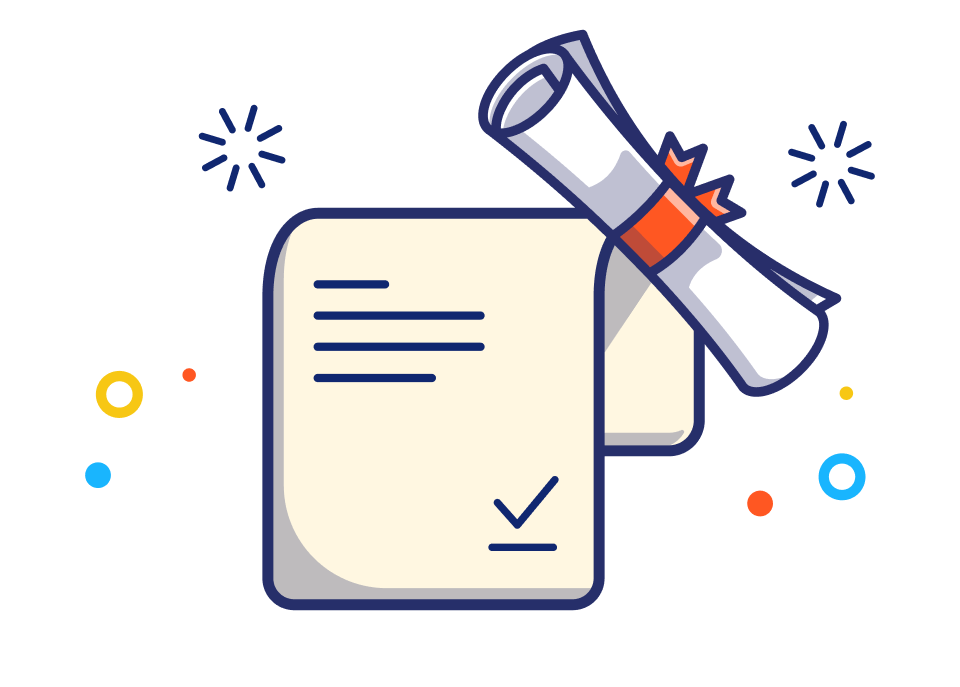
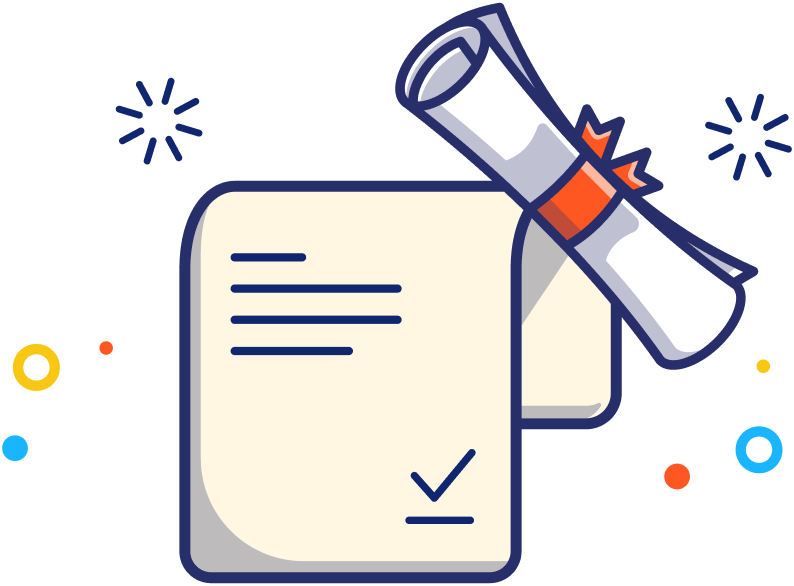
auth pages design fix

diff --git a/app/_components/auth/ForgotPasswordForm/ForgotPasswordForm.jsx b/app/_components/auth/ForgotPasswordForm/ForgotPasswordForm.jsx
@@ -42,7 +42,7 @@ export default function ForgotPasswordForm({ onSuccess }) {
 
 
   return (
-    <div className={styles.formWrapper}>
+    <div>
       <form className={styles.form} onSubmit={handleSubmit(onSubmit)}>
         <div style={{ marginBottom: "26px" }}>
           <p className={styles.label}>
@@ -89,7 +89,6 @@ export default function ForgotPasswordForm({ onSuccess }) {
         </button>
       </form>
 
-      <img src="/images/graduation.png" alt="grad" className={styles.grad} />
     </div>
   );
 }

diff --git a/app/_components/auth/SignUpForm/SignUpForm.module.css b/app/_components/auth/SignUpForm/SignUpForm.module.css
@@ -49,35 +49,9 @@
   flex-direction: row;
 }
 
-.grad {
-  display: none;
-}
-
 @media screen and (min-width: 850px) {
   .form {
     width: 400px;
     margin: 0;
-  }
-}
-
-@media screen and (min-width: 1200px) {
-  .formWrapper {
-    display: flex;
-    align-items: center;
-  }
-  .grad {
-    display: block;
-    width: 300px;
-    height: 200px;
-  }
-}
-
-@media screen and (min-width: 1400px) {
-  .form {
-    width: 328px;
-  }
-  .grad {
-    width: 480px;
-    height: 342.86px;
   }
 }

diff --git a/app/_components/auth/ForgotPasswordForm/ForgotPasswordForm.module.css b/app/_components/auth/ForgotPasswordForm/ForgotPasswordForm.module.css
@@ -63,34 +63,9 @@
   margin-top: 26px;
 }
 
-.grad {
-  display: none;
-}
-
 @media screen and (min-width: 850px) {
   .form {
     width: 400px;
     margin: 0;
-  }
-}
-@media screen and (min-width: 1200px) {
-  .formWrapper {
-    display: flex;
-    align-items: center;
-  }
-  .grad {
-    display: block;
-    width: 300px;
-    height: 200px;
-  }
-}
-
-@media screen and (min-width: 1400px) {
-  .form {
-    width: 328px;
-  }
-  .grad {
-    width: 480px;
-    height: 342.86px;
   }
 }

diff --git a/app/_components/auth/LoginForm/LoginForm.module.css b/app/_components/auth/LoginForm/LoginForm.module.css
@@ -63,34 +63,9 @@
   margin-top: 26px;
 }
 
-.grad {
-  display: none;
-}
-
 @media screen and (min-width: 850px) {
   .form {
     width: 400px;
     margin: 0;
-  }
-}
-@media screen and (min-width: 1200px) {
-  .formWrapper {
-    display: flex;
-    align-items: center;
-  }
-  .grad {
-    display: block;
-    width: 300px;
-    height: 200px;
-  }
-}
-
-@media screen and (min-width: 1400px) {
-  .form {
-    width: 328px;
-  }
-  .grad {
-    width: 480px;
-    height: 342.86px;
   }
 }

diff --git a/app/_components/auth/ResetPasswordForm/ResetPasswordForm.module.css b/app/_components/auth/ResetPasswordForm/ResetPasswordForm.module.css
@@ -99,34 +99,9 @@
   margin-top: 26px;
 }
 
-.grad {
-  display: none;
-}
-
 @media screen and (min-width: 850px) {
   .form {
     width: 400px;
     margin: 0;
-  }
-}
-@media screen and (min-width: 1200px) {
-  .formWrapper {
-    display: flex;
-    align-items: center;
-  }
-  .grad {
-    display: block;
-    width: 300px;
-    height: 200px;
-  }
-}
-
-@media screen and (min-width: 1400px) {
-  .form {
-    width: 328px;
-  }
-  .grad {
-    width: 480px;
-    height: 342.86px;
   }
 }

diff --git a/app/_components/auth/ResetPasswordForm/ResetPasswordForm.jsx b/app/_components/auth/ResetPasswordForm/ResetPasswordForm.jsx
@@ -89,7 +89,7 @@ export default function ResetPasswordForm({
   };
 
   return (
-    <div className={styles.formWrapper}>
+    <div>
       <form className={styles.form} onSubmit={handleSubmit(onSubmit)}>
         <div className={styles.fieldGroup}>
           <p className={styles.label}>
@@ -200,7 +200,6 @@ export default function ResetPasswordForm({
         </button>
       </form>
 
-      <img src="/images/graduation.png" alt="grad" className={styles.grad} />
     </div>
   );
 }

diff --git a/app/_components/auth/SignUpForm/SignUpForm.jsx b/app/_components/auth/SignUpForm/SignUpForm.jsx
@@ -61,7 +61,7 @@ export default function SignUpForm() {
   };
 
   return (
-    <div className={styles.formWrapper}>
+    <div>
       <form className={styles.form} onSubmit={handleSubmit(onSubmit)}>
         <div style={{ marginBottom: "26px" }}>
           <p className={styles.label}>
@@ -231,7 +231,6 @@ export default function SignUpForm() {
         </button>
       </form>
 
-      <img src="/images/graduation.png" alt="grad" className={styles.grad} />
     </div>
   );
 }

diff --git a/app/_components/auth/LoginForm/LoginForm.jsx b/app/_components/auth/LoginForm/LoginForm.jsx
@@ -53,7 +53,7 @@ export default function LoginForm() {
   };
 
   return (
-    <div className={styles.formWrapper}>
+    <div>
       <form className={styles.form} onSubmit={handleSubmit(onSubmit)}>
         <div style={{ marginBottom: "26px" }}>
           <p className={styles.label}>
@@ -159,7 +159,6 @@ export default function LoginForm() {
         </p>
       </form>
 
-      <img src="/images/graduation.png" alt="grad" className={styles.grad} />
     </div>
   );
 }

diff --git a/app/signup/SignUp.module.css b/app/signup/SignUp.module.css
@@ -27,6 +27,10 @@
   justify-content: center;
 }
 
+.grad {
+  display: none;
+}
+
 @media screen and (min-width: 850px) {
   .frame {
     display: flex;
@@ -50,8 +54,9 @@
     width: 280px;
   }
   .grad {
-    width: 300px;
-    height: 200px;
+    display: block;
+    width: 250px;
+    height: auto;
   }
 }
 
@@ -61,7 +66,6 @@
   }
 
   .grad {
-    width: 480px;
-    height: 342.86px;
+    width: 400px;
   }
 }

diff --git a/app/_components/auth/ForgotPasswordClient/ForgotPasswordClient.module.css b/app/_components/auth/ForgotPasswordClient/ForgotPasswordClient.module.css
@@ -44,6 +44,10 @@
   cursor: pointer;
 }
 
+.grad {
+  display: none;
+}
+
 @media screen and (min-width: 850px) {
   .frame {
     display: flex;
@@ -66,8 +70,9 @@
     width: 280px;
   }
   .grad {
-    width: 300px;
-    height: 200px;
+    display: block;
+    width: 250px;
+    height: auto;
   }
 }
 
@@ -77,7 +82,6 @@
   }
 
   .grad {
-    width: 480px;
-    height: 342.86px;
+    width: 400px;
   }
 }

diff --git a/app/login/Login.module.css b/app/login/Login.module.css
@@ -32,6 +32,10 @@
   cursor: pointer;
 }
 
+.grad {
+  display: none;
+}
+
 @media screen and (min-width: 850px) {
   .frame {
     display: flex;
@@ -54,8 +58,9 @@
     width: 280px;
   }
   .grad {
-    width: 300px;
-    height: 200px;
+    display: block;
+    width: 250px;
+    height: auto;
   }
 }
 
@@ -65,7 +70,6 @@
   }
 
   .grad {
-    width: 480px;
-    height: 342.86px;
+    width: 400px;
   }
 }

diff --git a/app/reset-password/ResetPassword.module.css b/app/reset-password/ResetPassword.module.css
@@ -32,6 +32,10 @@
   cursor: pointer;
 }
 
+.grad {
+  display: none;
+}
+
 @media screen and (min-width: 850px) {
   .frame {
     display: flex;
@@ -54,8 +58,9 @@
     width: 280px;
   }
   .grad {
-    width: 300px;
-    height: 200px;
+    display: block;
+    width: 250px;
+    height: auto;
   }
 }
 
@@ -65,7 +70,6 @@
   }
 
   .grad {
-    width: 480px;
-    height: 342.86px;
+    width: 400px;
   }
 }
